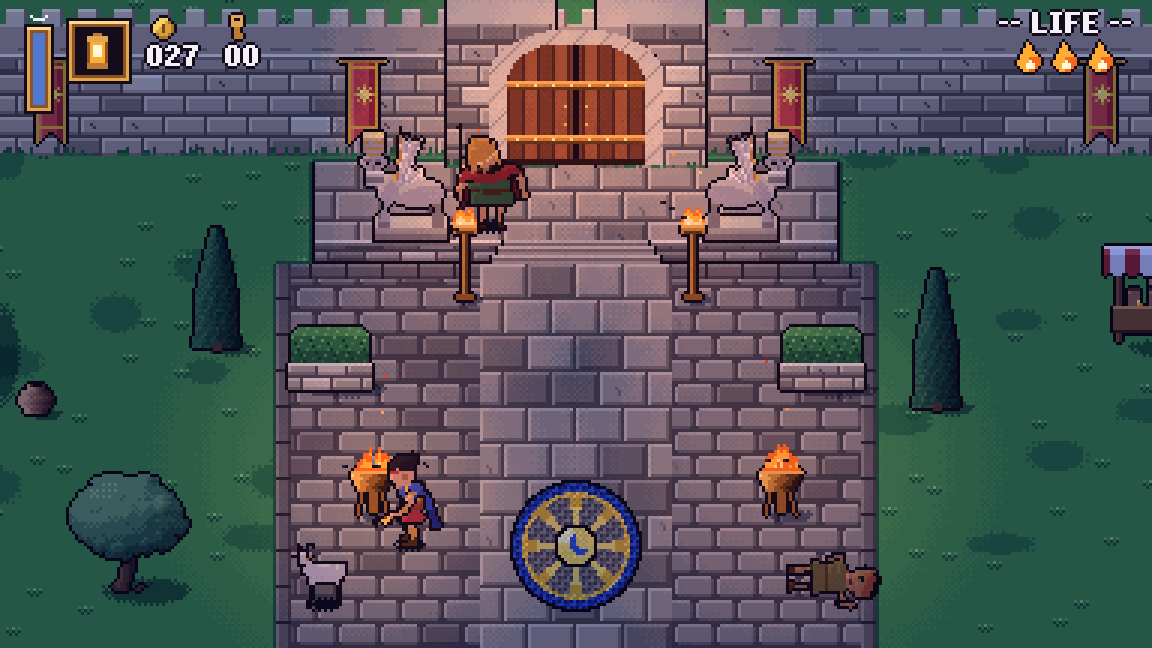
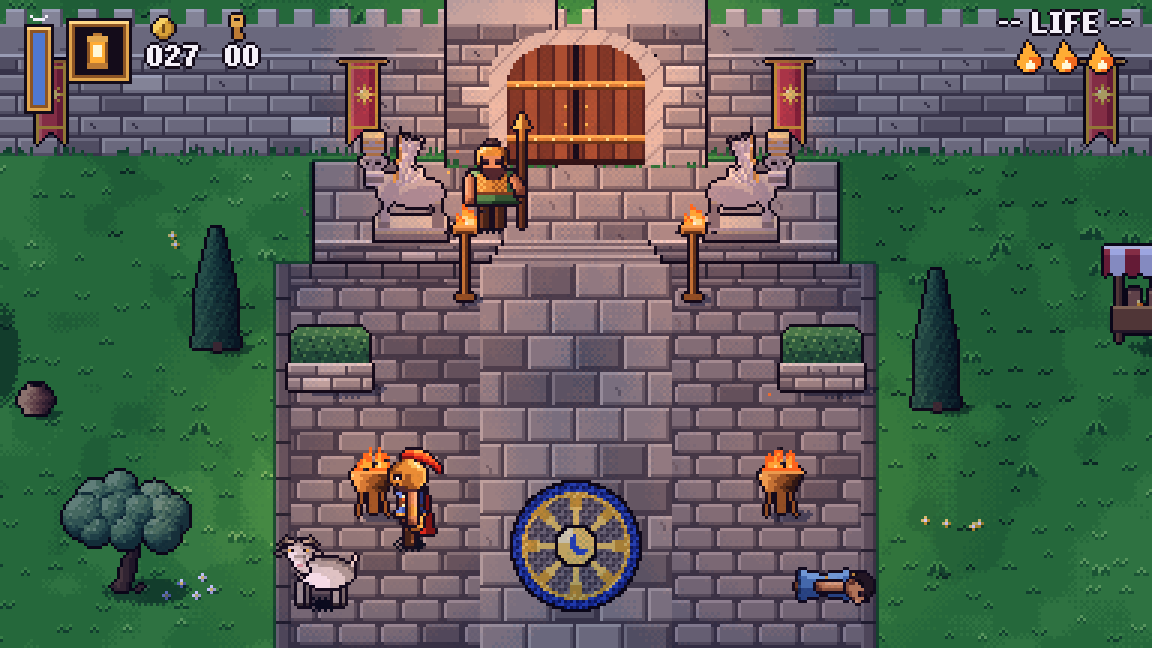
README and store images show the new art

diff --git a/README.md b/README.md
@@ -52,8 +52,8 @@ The game saves every time you walk into a new place and every time you find some
 
 - **Unity 6 (URP)**, with everything in the game built from code at startup. The scene file is empty.
 - **The pixel look** comes from a 216-line render target at 16 pixels per tile. The camera snaps to whole pixels and slides the finished image by sub-pixel amounts, so scrolling stays smooth. A separate light layer (moonlight plus torchlight) is multiplied over the picture, and the dream is repainted per pixel by the same shader that draws the gold ring.
-- **Characters, creatures and statues** are modelled in Blender in pixel units and rendered frame by frame with flat toon bands and no anti-aliasing. The dark outlines and the inner contour lines are drawn afterwards from a part-id pass (`Art/blender`).
-- **Places and props** are drawn by small Python programs pixel by pixel: hue-shifted ramps, dithering and hand-placed details (`Art/pixel`).
+- **Azar and the whole cast** are drawn pixel by pixel. Faces, helmets and headwear are hand-placed pixel maps; bodies, capes, blades and lanterns are built part by part, each part with its own dark outline, and every frame of every animation is posed by hand in code (`Art/pixel/hero.py`, `folk.py`, `beasts.py`). The Brazen Bull and the sleeping god are modelled as lit solids in a tiny depth buffer, so masses that meet blend into one bronze casting, then cut down to a short palette with no anti-aliasing (`Art/pixel/bull.py`, `god.py`). The gate guardians were modelled in Blender in pixel units (`Art/blender`).
+- **Places and props** are drawn by small Python programs pixel by pixel: lawns with tufts and flower patches, trodden earth, beach sand, limestone cliffs, olive trees and bushes built from lit clumps, glazed brick and bevelled clay floors, all from hue-shifted ramps with hand-placed details (`Art/pixel`).
 - **The text face** is hand-set in a 7-pixel grid (`Art/pixel/font.py`). Every character speaks in their own synthesized voice.
 - **The score** is written note by note in the Hijaz mode and played on a General MIDI soundfont (`Art/audio/music.py`). Every place has a waking arrangement and a dream arrangement of the same notes at the same length, so nodding off crossfades the music in the middle of a phrase. The sound effects and night ambience are synthesized from scratch (`Art/audio/sfx.py`, `Art/audio/ambience.py`).
 
